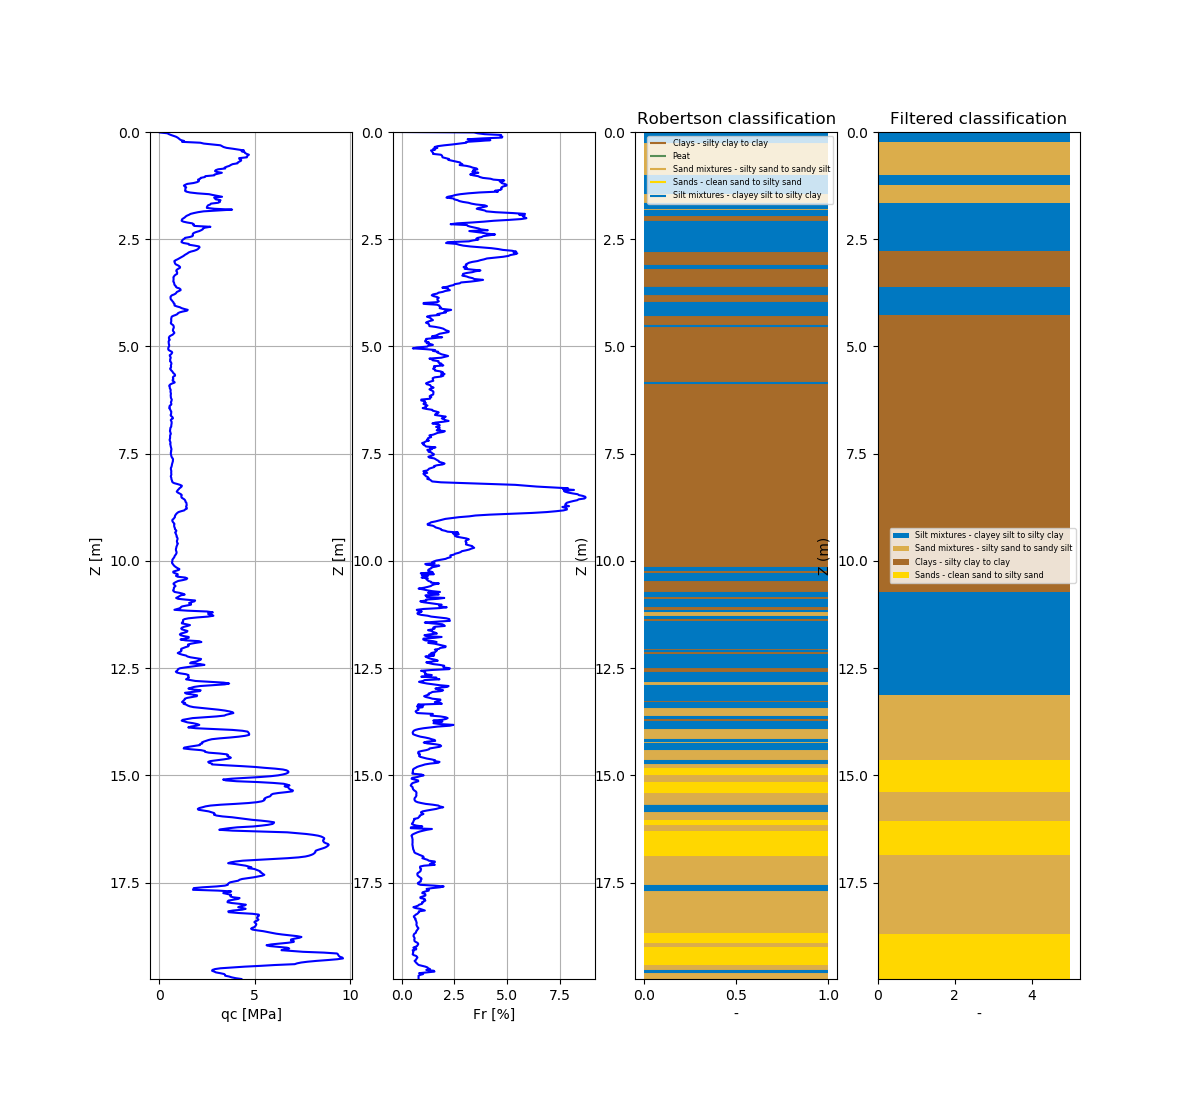
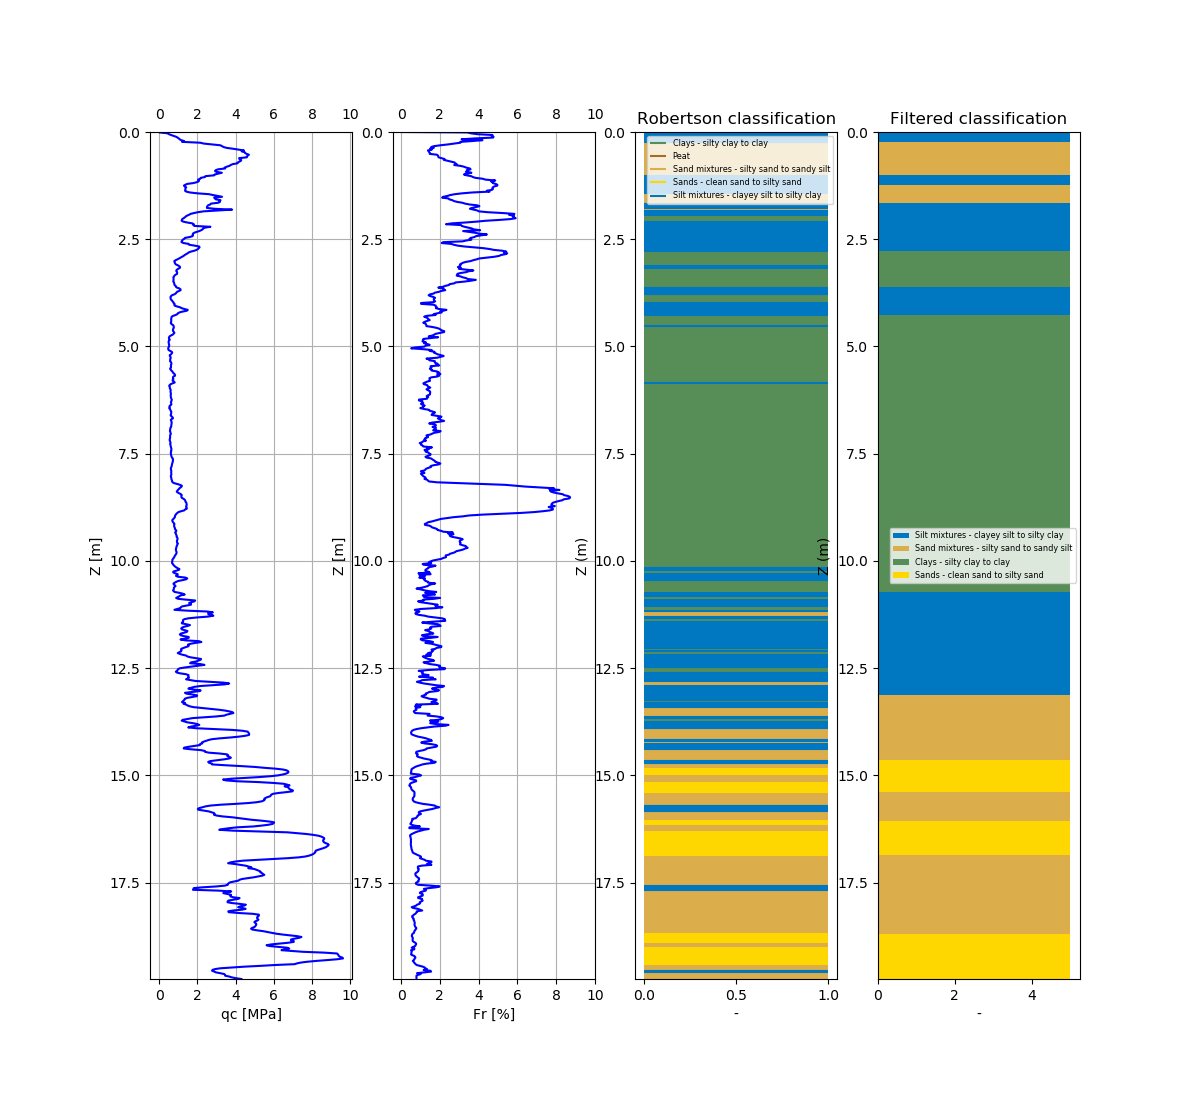
Change plotting style (#15)
* dunder __str__ added

* fized inputs

* restyling plots

* return plot

diff --git a/pygef/plot_cpt.py b/pygef/plot_cpt.py
@@ -2,8 +2,8 @@ import matplotlib.pyplot as plt
 import numpy as np
 from collections import OrderedDict
 
-colours_robertson = {'Peat': '#578E57',
-                     'Clays - silty clay to clay': '#a76b29',
+colours_robertson = {'Peat': '#a76b29',
+                     'Clays - silty clay to clay': '#578E57',
                      'Silt mixtures - clayey silt to silty clay': '#0078C1',
                      'Sand mixtures - silty sand to sandy silt': '#DBAD4B',
                      'Sands - clean sand to silty sand': 'gold',
@@ -11,8 +11,8 @@ colours_robertson = {'Peat': '#578E57',
                      None: 'black'
                      }
 
-colours_been_jeffrey = {'Peat': '#578E57',
-                        'Clays': '#a76b29',
+colours_been_jeffrey = {'Peat': '#a76b29',
+                        'Clays': '#578E57',
                         'Clayey silt to silty clay': '#0078C1',
                         'Silty sand to sandy silt': '#DBAD4B',
                         'Sands: clean sand to silty': 'gold',
@@ -48,14 +48,17 @@ class PlotCPT:
             fig_i.set_xlabel(f'{c} {unit}')
             fig_i.set_ylabel('Z [m]')
             plt.grid()
+            fig_i.set_xticks(np.arange(0, self.df[c].max() + 2, 2))
+            fig_i.xaxis.set_tick_params(labeltop='on')
             plt.ylim(depth_max, depth_min)
 
         fig = self.add_plot_classification(fig, depth_max, depth_min)
         fig = self.add_grouped_classification(fig, depth_max, depth_min)
 
         if show:
-            return plt.show()
-        return fig
+            plt.show()
+        else:
+            return fig
 
     @staticmethod
     def assign_color(df, classification):

diff --git a/pygef/gef.py b/pygef/gef.py
@@ -164,6 +164,7 @@ class ParseGEF:
         return self.df.__str__()
 
     def classify_soil(self, classification, water_level_NAP, p_a=0.1, new=True):
+
         if classification == 'robertson':
             return self.classify_robertson(water_level_NAP, new, p_a=p_a)
         elif classification == 'been_jeffrey':
